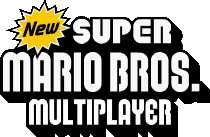
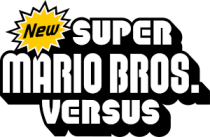
More UI Updates
Added -
1. The colour of pipes text will now change depending on if it is selected or not, just like the original game.
2. Updated the logo to the new design by mindnomad.

Changed region(s): [[0.0, 0.0, 1.0, 1.0], [0.4286, 0.438, 0.4571, 0.4672]]

diff --git a/Assets/Scripts/UI/Menu/PipeButton.cs b/Assets/Scripts/UI/Menu/PipeButton.cs
@@ -1,6 +1,7 @@
 using UnityEngine;
 using UnityEngine.UI;
 using UnityEngine.EventSystems;
+using TMPro;
 
 public class PipeButton : MonoBehaviour {
 
@@ -12,8 +13,10 @@ public class PipeButton : MonoBehaviour {
     private Image image;
     private RectTransform rect;
     private Vector2 anchor, adjustedAnchor;
+    private TextMeshProUGUI buttonText;
 
     public void Start() {
+        buttonText = GetComponentInChildren<TextMeshProUGUI>();
         rect = GetComponent<RectTransform>();
         button = GetComponent<Button>();
         image = GetComponentInChildren<Image>();
@@ -31,9 +34,11 @@ public class PipeButton : MonoBehaviour {
         if (EventSystem.current.currentSelectedGameObject == gameObject) {
             SetAnchor(anchor);
             image.color = selectedColor;
+            buttonText.color = new Color32 (240,240,0,255);
         } else {
             SetAnchor(adjustedAnchor);
             image.color = deselectedColor;
+            buttonText.color = new Color32 (138,138,138,255);
         }
     }
 
